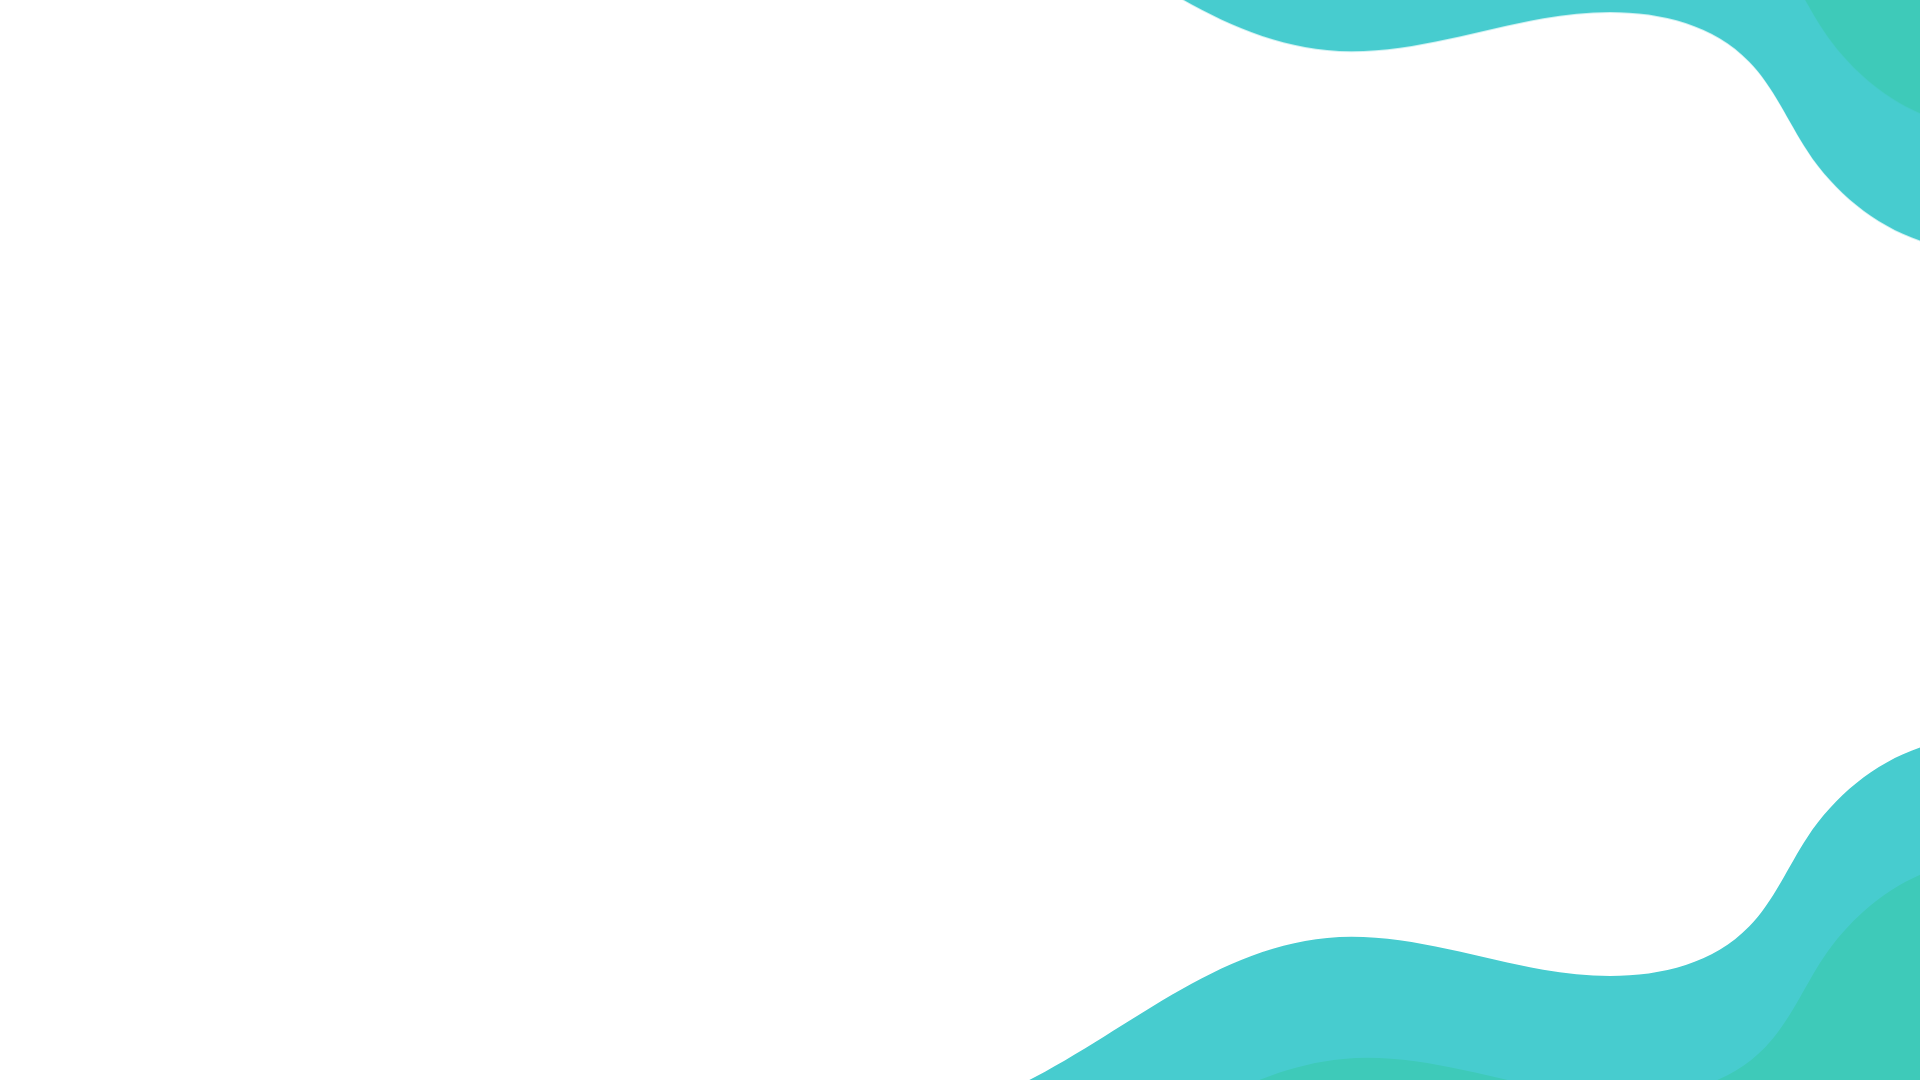
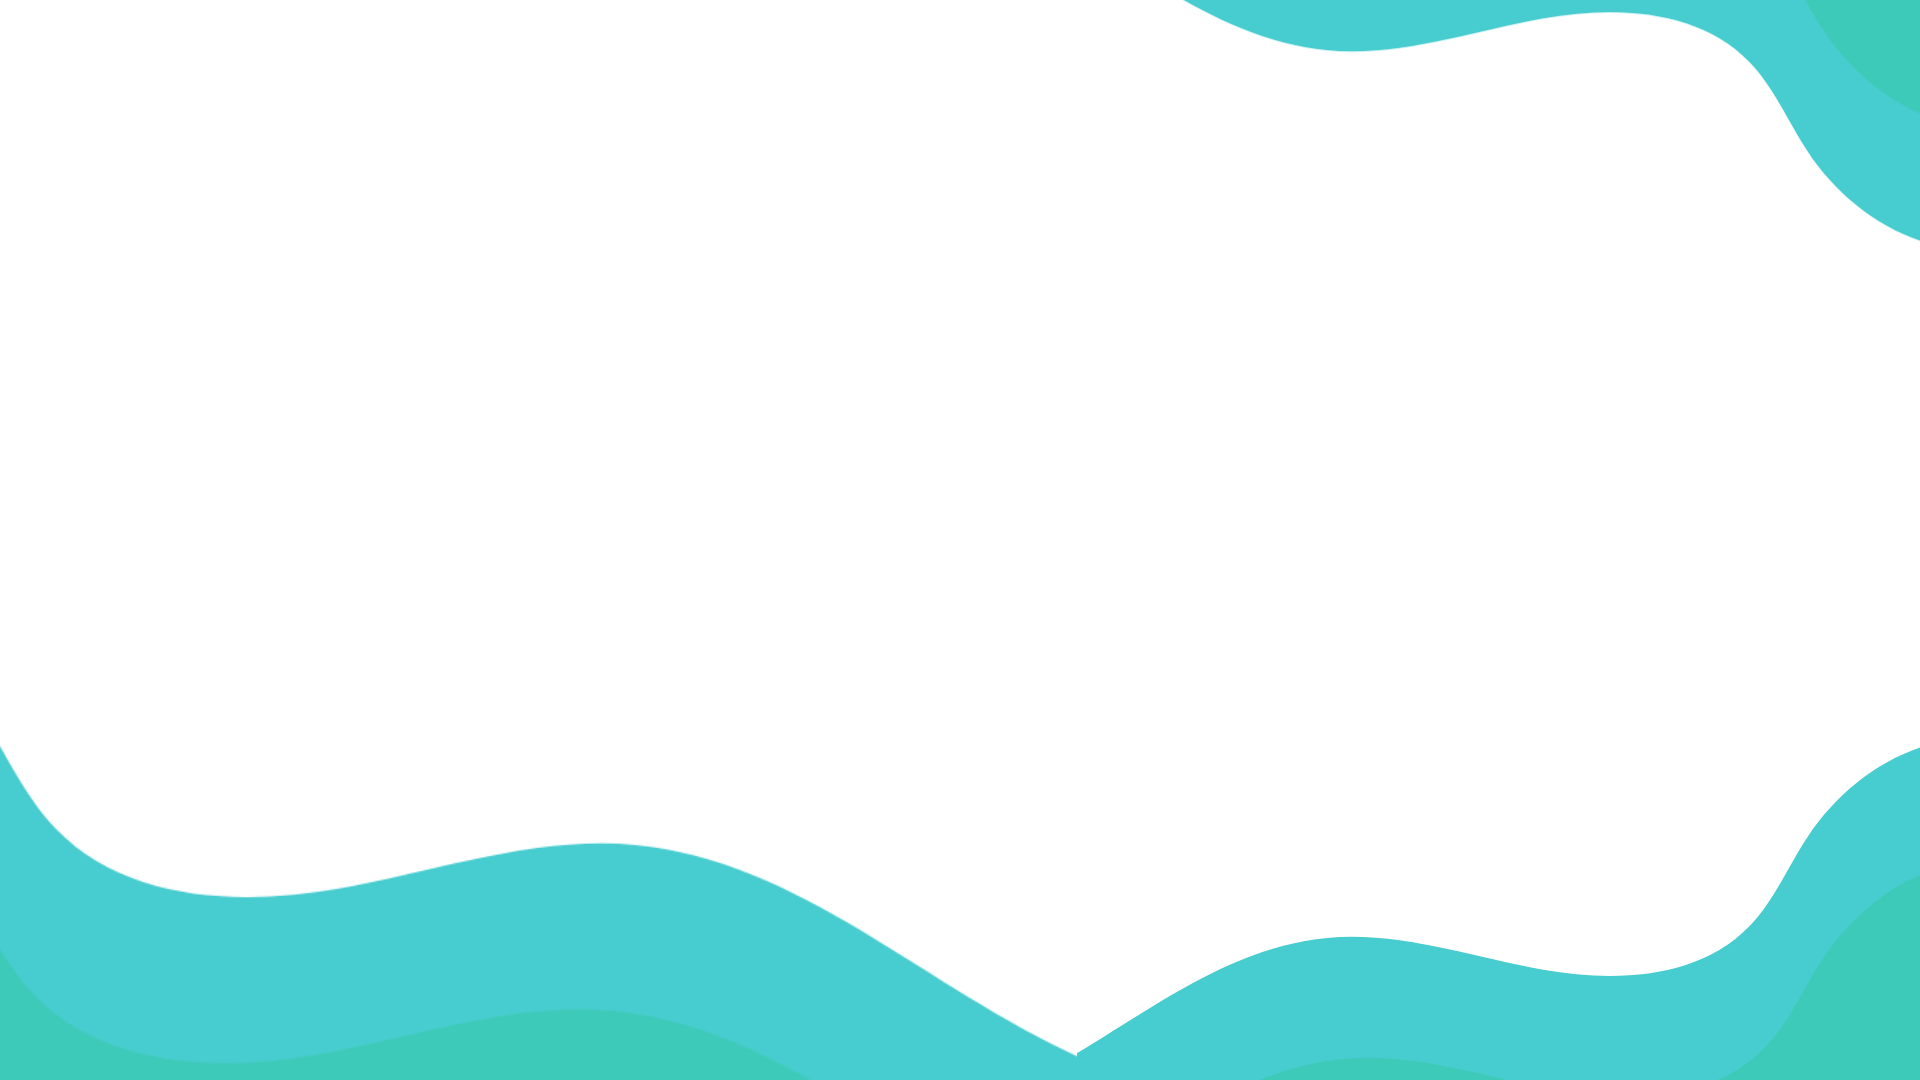
Add graphics to register_user and to main admin panel

Changed region(s): [[0.0, 0.7028, 0.5625, 1.0]]

diff --git a/frontend/src/app/admin/main/edit/add/user/page.tsx b/frontend/src/app/admin/main/edit/add/user/page.tsx
@@ -60,87 +60,81 @@ const AddPage = () => {
     };
     
     return (
-        <form className="flex flex-col mx-auto bg-white rounded-[30px] shadow-lg"style={{ height: '700px', width: '500px' }} onSubmit={handleSubmit}>
-
-            <div className="text-center text-marine font-anton mt-20" style={{ fontSize: '54px' }}>
-                REJESTRACJA
-            </div>
-
-            {error && <div className="text-red-500 mb-4">{error}</div>}
-
-            {/* Name */}
-            <div className="mb-4 flex justify-center mt-14">
-            <label htmlFor="name" className="block text-sm font-medium text-gray-700">
-                
-            </label>
-            <input
-                type="text"
-                id="firstName"
-                name="firstName"
-                value={formData.firstName}
-                onChange={handleChange}
-                className="w-[400px] mt-1 border-b border-dark_blue focus:outline-none focus:border-dark_blue placeholder-dark_blue placeholder:text-lg pb-2 mx-auto"
-                placeholder="Imię"
-            />
-            </div>
-
+        <div 
+            className="min-h-screen flex items-center justify-center bg-cover bg-center" 
+            style={{ backgroundImage: "url('/assets/admin_background.png')" }} 
+        >
+            <form onSubmit={handleSubmit} className="flex flex-col  bg-white rounded-[30px] shadow-2xl w-[1000px] p-6">
             
-            {/* Lastname */}
-            <div className="mb-4 flex justify-center mt-6">
-                <label htmlFor="name" className="block text-sm font-medium text-gray-700">
-                </label>
-                <input
-                    type="text"
-                    id="lastName"
-                    name="lastName"
-                    value={formData.lastName}
-                    onChange={handleChange}
-                    className="w-[400px] mt-1 border-b border-dark_blue focus:outline-none focus:border-dark_blue placeholder-dark_blue placeholder:text-lg pb-2 mx-auto"
-                    placeholder="Nazwisko"
-                />
-            </div>
-
-            {/* Email */}
-            <div className="mb-4 flex justify-center mt-6">
-                <label htmlFor="email" className="block text-sm font-medium text-gray-700">
-                </label>
-                <input
-                    type="email"
-                    id="email"
-                    name="email"
-                    value={formData.email}
-                    onChange={handleChange}
-                    className="w-[400px] mt-1 border-b border-dark_blue focus:outline-none focus:border-dark_blue placeholder-dark_blue placeholder:text-lg pb-2 mx-auto"
-                    placeholder="Email"
-                />
-            </div>
-
-            {/* Password */}
-            <div className="mb-4 flex justify-center mt-6">
-                <label htmlFor="password" className="block text-sm font-medium text-gray-700">
-                </label>
+                <h3 className="text-[50px] font-anton text-dark_blue mt-5 mb-4 text-center">REJESTRACJA UŻYTKOWNIKA</h3>
+    
+                {error && <div className="text-red-500 mb-4">{error}</div>}
+    
+                {/* Name */}
+                <div className="ml-9  mt-3">
+                <label htmlFor="firstName" className="block text-[17px] font-medium text-dark_blue font-[Open_Sans]">
+                        Imię:
+                    </label>
                     <input
-                            type="password"
-                            id="password"
-                            name="password"
-                            value={formData.password}
-                            onChange={handleChange}
-                            className="w-[400px] mt-1 border-b border-dark_blue focus:outline-none focus:border-dark_blue placeholder-dark_blue placeholder:text-lg pb-2 mx-auto"
-                            placeholder="Hasło"
-                        />
-            </div>
-
-            {/* Submit button */}
-            <div className="mb-4 flex justify-center mt-10">
-            <button
-                type="submit"
-                className="w-[200px] h-[50px] bg-marine text-white text-medium font-medium rounded-[15px] shadow-md hover:shadow-lg transition-all duration-300"
-                >
-                Zarejestruj się
-            </button>
-            </div>
-        </form>
+                        type="text"
+                        id="firstName"
+                        name="firstName"
+                        value={formData.firstName}
+                        onChange={handleChange}
+                        className="w-[93%] p-2 border border-gray-300 font-[Open_Sans] rounded-md focus:border-dark_blue focus:outline-none text-dark_blue"
+                       
+                    />
+                </div>
+    
+                {/* Lastname */}
+                <div className="ml-9 mt-3">
+                <label htmlFor="firstName" className="block text-[17px] font-medium text-dark_blue font-[Open_Sans]">
+                        Nazwisko:
+                    </label>
+                    <input
+                        type="text"
+                        id="lastName"
+                        name="lastName"
+                        value={formData.lastName}
+                        onChange={handleChange}
+                        className="w-[93%] p-2 border border-gray-300 font-[Open_Sans] rounded-md focus:border-dark_blue focus:outline-none text-dark_blue"
+                    />
+                </div>
+    
+                {/* Email */}
+                <div className="ml-9 mt-3">
+                <label htmlFor="firstName" className="block text-[17px] font-medium text-dark_blue font-[Open_Sans]">
+                        Email:
+                    </label>
+                    <input
+                        type="email"
+                        id="email"
+                        name="email"
+                        value={formData.email}
+                        onChange={handleChange}
+                        className="w-[93%] p-2 border border-gray-300 font-[Open_Sans] rounded-md focus:border-dark_blue focus:outline-none text-dark_blue"
+                    />
+                </div>
+    
+                {/* Password */}
+                <div className="ml-9 mb-4 mt-3">
+                <label htmlFor="firstName" className="block text-[17px] font-medium text-dark_blue font-[Open_Sans]">
+                        Hasło:
+                    </label>
+                    <input
+                        type="password"
+                        id="password"
+                        name="password"
+                        value={formData.password}
+                        onChange={handleChange}
+                        className="w-[93%] p-2 border border-gray-300 font-[Open_Sans] rounded-md focus:border-dark_blue focus:outline-none text-dark_blue"
+                    />
+                </div>
+                <button type="submit" className="w-[90%] ml-9 h-[50px] bg-dark_blue text-center text-white rounded-md mt-5 ">Zarejestruj</button>
+            </form>
+        </div>
     );
+    
 }
 
 export default AddPage;

diff --git a/frontend/src/app/admin/main/page.tsx b/frontend/src/app/admin/main/page.tsx
@@ -1,6 +1,12 @@
 const Page = () => {
     return (
-        <div className="flex flex-row justify-center text-2xl mt-10"> Welcome to admin page! </div>
+        <div className="flex flex-row justify-center text-2xl  min-h-screen"
+        style={{
+            backgroundImage: "url('/assets/admin_background.png')",
+            backgroundSize: "cover",
+        }}>
+         <h3 className="text-[45px] font-anton text-dark_blue mt-20 text-center">WITAJ W PANELU ADMINISTRATORA!</h3>
+</div>
     );
 }
 

diff --git a/frontend/src/app/admin/main/edit/add/child/page.tsx b/frontend/src/app/admin/main/edit/add/child/page.tsx
@@ -120,7 +120,7 @@ const ChildAddPage = () => {
                     />
                 </div>
     
-                <button type="submit" className="w-[90%] ml-9 h-[50px] bg-dark_blue text-center text-white rounded-md mt-5 ">Zapisz</button>
+                <button type="submit" className="w-[90%] ml-9 h-[50px] bg-dark_blue text-center text-white rounded-md mt-5 ">Zarejestruj</button>
             </form>
         </div>
     );

diff --git a/frontend/src/components/fundForm.tsx b/frontend/src/components/fundForm.tsx
@@ -3,7 +3,7 @@ import RouterButton from "./routerButton";
 const FundForm = () => {
     return (
         <>
-            <form className="flex flex-col  w-[740px] h-[700px] ml-10">
+            <form className="flex flex-col  w-[740px] ml-10">
             
             <div className="flex flex-col items-start">
                 <p className=" ml-3 text-dark_blue font-[Open_Sans] font-bold">TYTUŁ ZBIÓRKI:</p>
